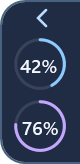
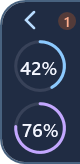
Show low-context chat count on the Orbit edge tab

diff --git a/README.md b/README.md
@@ -19,8 +19,8 @@ Orbit is an always-on-top Windows widget for Codex. See how much of your 5-hour 
 ## Using Orbit
 
 - **Usage.** The two rings show usage and reset times. A ring turns amber at 90% used.
-- **Context.** Open the panel to see the three most recently active local Codex chats across projects. A percentage turns peach below 15% remaining. When the panel is closed, the **Context** button picks up the same color if any of the three chats crosses that threshold. Personal ChatGPT conversations are outside this local history.
-- **Edge tab.** Click **›** next to **×** to tuck the widget into the right edge of the current monitor. The upper mini ring shows the 5-hour limit and the lower ring shows the weekly limit. Drag the tab vertically to reposition it; click it to restore the widget at that height.
+- **Context.** Open the panel to see the three most recently active local Codex chats across projects. A percentage turns peach below 20% remaining. When the panel is closed, the **Context** button picks up the same color if any of the three chats crosses that threshold. Personal ChatGPT conversations are outside this local history.
+- **Edge tab.** Click **›** next to **×** to tuck the widget into the right edge of the current monitor. The upper mini ring shows the 5-hour limit and the lower ring shows the weekly limit. A peach number counts all unarchived local Codex chats with a known context reading below 20% remaining, including chats outside the three shown in the panel. Drag the tab vertically to reposition it; click it to restore the widget at that height.
 - **Refresh.** Orbit checks about every 30 seconds. **LIVE** means the latest limits check succeeded; **Checked** shows the time of the last successful chat check. Opening **Context** requests a fresh check.
 
 On another PC, Orbit uses that PC’s Codex sign-in and local chat history.
